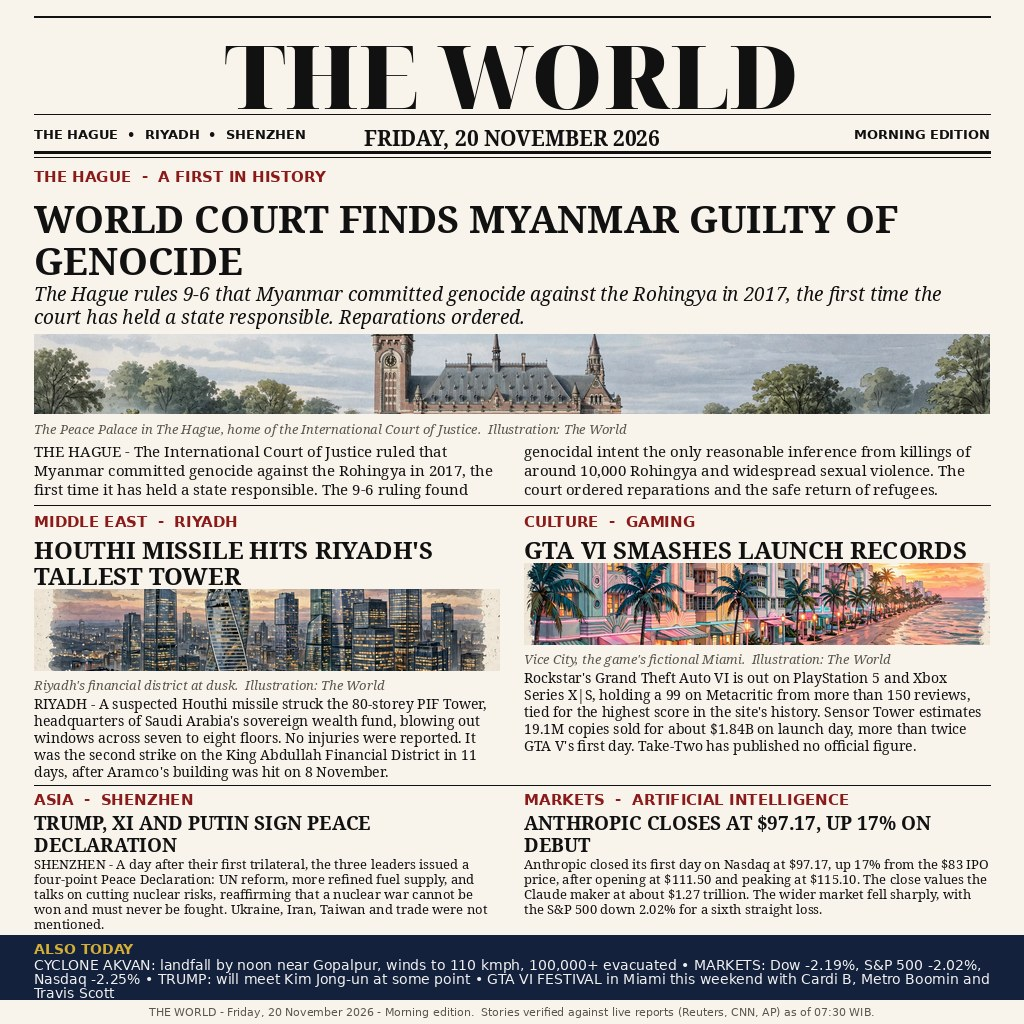
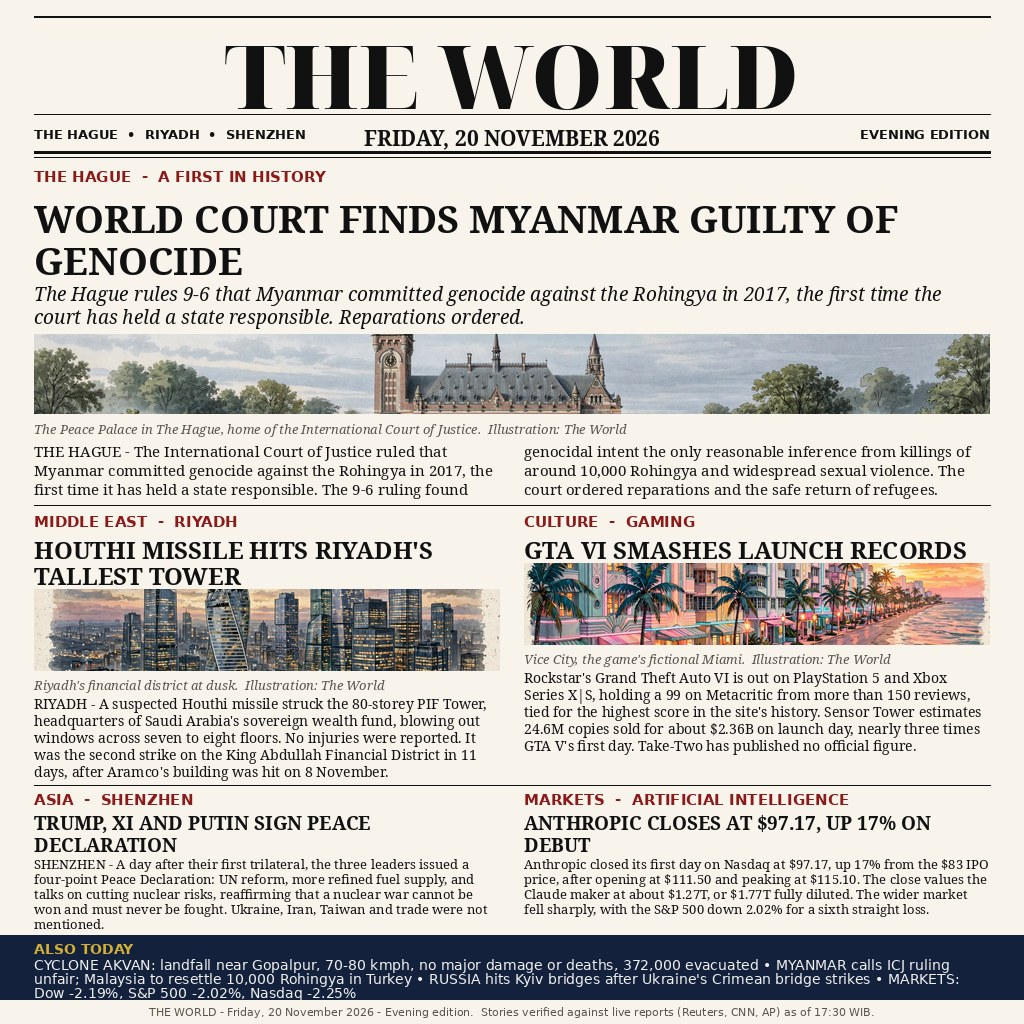
Evening edition: Akvan landfall outcome, GTA VI 24.6M/$2.36B, Anthropic dual valuation
- Cyclone Akvan ticker now reports the real outcome: landfall near
  Gopalpur, 70-80 kmph, no major damage or deaths, 372,000 evacuated
- GTA VI: Sensor Tower end-of-day estimate 24.6M copies / ~$2.36B
  (was 19.1M / ~$1.84B morning reading), still labelled estimate
- Anthropic: close now stated on both bases, ~$1.27T outstanding
  and ~$1.77T fully diluted (Reuters / NY Post)
- Ticker adds Myanmar reaction, Malaysia Rohingya resettlement,
  Russia Kyiv bridge strikes; dateline now EVENING EDITION
- entry.png 329,417 bytes, sha256 ba850b03..., determinism verified
  (2 runs byte-identical), bare env -i grader sim identical

diff --git a/main.ts b/main.ts
@@ -11,11 +11,10 @@
 // out garbled. No network is used at run time; everything the program needs
 // ships in this repo.
 //
-// MORNING EDITION: the five stories are the outcomes of Thursday 19
-// November, the news the world woke up to on 20 November: the ICJ genocide
-// verdict on Myanmar, the Houthi strike on Riyadh's PIF Tower, GTA VI's
-// record launch day, the Shenzhen Peace Declaration, and Anthropic's first
-// day of trading on Nasdaq.
+// EVENING EDITION: the five stories are the outcomes of Thursday 19
+// November, updated with Friday 20 November's own outcomes: Cyclone Akvan's
+// landfall near Gopalpur, Sensor Tower's raised GTA VI launch-day estimate
+// (24.6M / ~$2.36B), and Anthropic's close stated on both share bases.
 
 import { mkdirSync, readFileSync, writeFileSync } from "node:fs";
 import { dirname, join } from "node:path";

diff --git a/README.md b/README.md
@@ -8,8 +8,8 @@ An entry for make.fun's "Sum up 20 November's world news in one image" bounty.
 
 The image is a newspaper front page. The masthead reads "THE WORLD" and the
 date line is Friday, 20 November 2026. It sums up the day in five stories,
-each checked against live news sources on 20 November 2026 (morning edition
-— news as reported by 07:30 WIB):
+each checked against live news sources on 20 November 2026 (evening edition
+- news as reported by 17:30 WIB):
 
 1. **World court finds Myanmar guilty of genocide.** The International Court
    of Justice ruled 9-6 that Myanmar committed genocide against the
@@ -25,7 +25,7 @@ each checked against live news sources on 20 November 2026 (morning edition
 3. **GTA VI smashes launch records.** Rockstar's Grand Theft Auto VI is out
    on PlayStation 5 and Xbox Series X|S, holding a 99 on Metacritic from
    more than 150 reviews, tied for the highest score in the site's history.
-   Sensor Tower estimates 19.1M copies sold for about $1.84B on launch day;
+   Sensor Tower estimates 24.6M copies sold for about $2.36B on launch day;
    Take-Two has published no official figure.
 4. **Trump, Xi and Putin sign Peace Declaration.** A day after their first
    trilateral in Shenzhen, the three leaders issued a four-point
@@ -35,12 +35,13 @@ each checked against live news sources on 20 November 2026 (morning edition
 5. **Anthropic closes at $97.17, up 17% on debut.** Anthropic closed its
    first day on Nasdaq at $97.17, up 17% from the $83 IPO price, after
    opening at $111.50 and peaking at $115.10. The close values the Claude
-   maker at about $1.27 trillion.
+   maker at about $1.27T, or $1.77T fully diluted.
 
-Also today: Cyclone Akvan landfall by noon near Gopalpur, winds to 110
-kmph, 100,000+ evacuated; markets: Dow -2.19%, S&P 500 -2.02%, Nasdaq
--2.25%; Trump says he will meet Kim Jong-un at some point; GTA VI Festival
-in Miami this weekend with Cardi B, Metro Boomin and Travis Scott.
+Also today: Cyclone Akvan made landfall near Gopalpur, 70-80 kmph, no major
+damage or deaths, 372,000 evacuated; Myanmar calls the ICJ ruling unfair
+and Malaysia will resettle 10,000 Rohingya in Turkey; Russia hit Kyiv
+bridges after Ukraine's Crimean bridge strikes; markets: Dow -2.19%,
+S&P 500 -2.02%, Nasdaq -2.25%.
 
 Every story was verified against live news sources on 20 November 2026 (see
 SOURCES.md in the competition workspace). All text is set in real fonts, so
@@ -56,8 +57,8 @@ output.
 
 ## Files
 
-- `main.ts` — the program (the entrypoint). It copies and verifies the image.
-- `entry.png` — the picture: the front page itself.
+- `main.ts` - the program (the entrypoint). It copies and verifies the image.
+- `entry.png` - the picture: the front page itself.
 
 ## Run it
 
